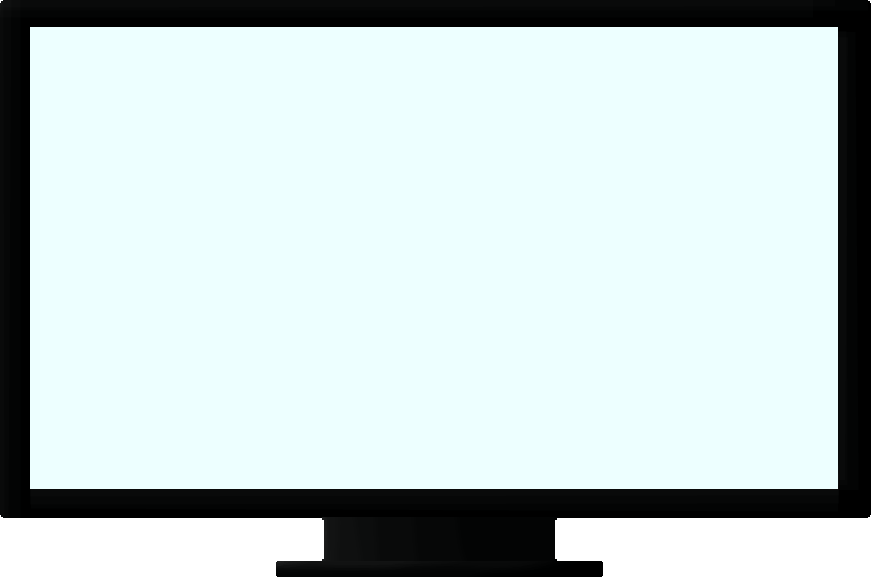
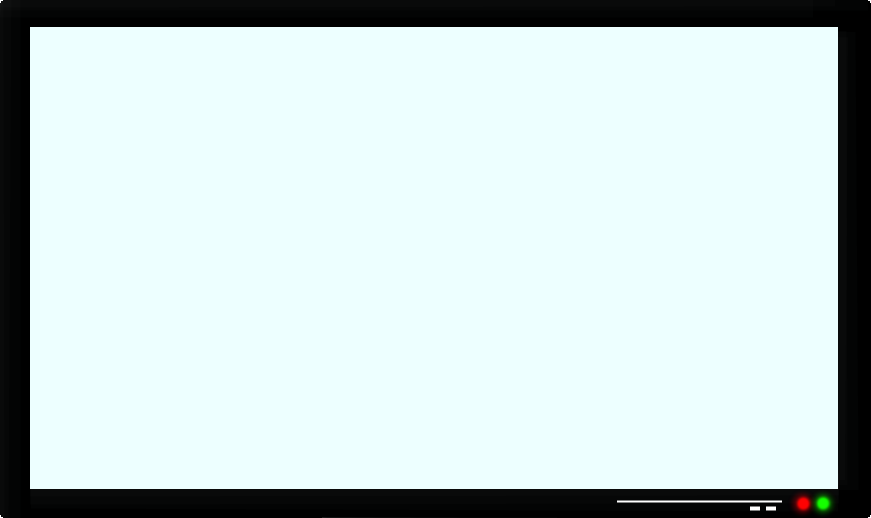
add infomonitor

Changed region(s): [[0.0, 0.834, 1.0, 1.0], [0.031, 0.0309, 0.961, 0.0618]]

diff --git a/core/src/com/thetriumvirate/game/StartScreen.java b/core/src/com/thetriumvirate/game/StartScreen.java
@@ -10,6 +10,7 @@ import com.badlogic.gdx.graphics.GL20;
 import com.badlogic.gdx.graphics.OrthographicCamera;
 import com.badlogic.gdx.graphics.Pixmap;
 import com.badlogic.gdx.graphics.Texture;
+import com.badlogic.gdx.graphics.g2d.GlyphLayout;
 
 public final class StartScreen implements Screen, InputProcessor {
 	
@@ -20,6 +21,7 @@ public final class StartScreen implements Screen, InputProcessor {
 	// private static final String RES_SOMETHING = "somewhere/something";
 	private static final String  BACKGROUND_TEXTURE = "graphics/background.png";
 	private Texture background_texture;
+	
 	
 	private ArrayList<Keybutton> buttons;
 	private WordButton wordPlay;
@@ -118,6 +120,7 @@ public final class StartScreen implements Screen, InputProcessor {
 		game.spritebatch.draw(background_texture, 0, 0, game.SCREEN_WIDTH, game.SCREEN_HEIGHT);
 		
 		game.spritebatch.draw(backgroundShadeTexture, 0, 0, game.SCREEN_WIDTH, game.SCREEN_HEIGHT);
+		
 		
 		for(Keybutton b : buttons)
 			b.render(game);

diff --git a/core/src/com/thetriumvirate/game/Main.java b/core/src/com/thetriumvirate/game/Main.java
@@ -19,8 +19,8 @@ public class Main extends Game {
 	
 	public final String RES_FONT;
 	public final String RES_LITTLE_FONT_NAME;
-	
 	public final String RES_TITLE_FONT_NAME;
+	public final String RES_INFO_FONT_NAME;
 	
 	// Globally used variables
 	public static int SCREEN_HEIGHT = 800;
@@ -53,6 +53,7 @@ public class Main extends Game {
 		RES_FONT = "fonts/OpenSans-SemiBold";
 		RES_LITTLE_FONT_NAME = "littleFont.ttf";
 		RES_TITLE_FONT_NAME = "titleFont.ttf";
+		RES_INFO_FONT_NAME = "infoFont.ttf";
 		
 	}
 	
@@ -86,6 +87,7 @@ public class Main extends Game {
 		fontloader.load(RES_DEFAULT_FONT);
 		fontloader.load(RES_FONT, Keyblock.getEdgeLength()/4, RES_LITTLE_FONT_NAME);
 		fontloader.load(RES_FONT, (int) (Keyblock.getEdgeLength()*2.5f), RES_TITLE_FONT_NAME);
+		fontloader.load(RES_FONT, 20, RES_INFO_FONT_NAME);
 	}
 	
 	@Override

diff --git a/core/src/com/thetriumvirate/game/InfoMonitor.java b/core/src/com/thetriumvirate/game/InfoMonitor.java
@@ -1,0 +1,23 @@
+package com.thetriumvirate.game;
+
+import com.badlogic.gdx.graphics.Texture;
+import com.badlogic.gdx.graphics.g2d.GlyphLayout;
+
+public class InfoMonitor {
+
+	private String message;
+	private GlyphLayout messageLayout;
+	
+	private Texture monitor_texture;
+	private int posX, posY, width, height;
+	
+	public InfoMonitor(int posX, int posY, int width, int height, String message) {
+		this.message = message;
+		this.posX = posX;
+		this.posY = posY;
+		this.width = width;
+		this.height = height;
+		
+
+	}
+}
